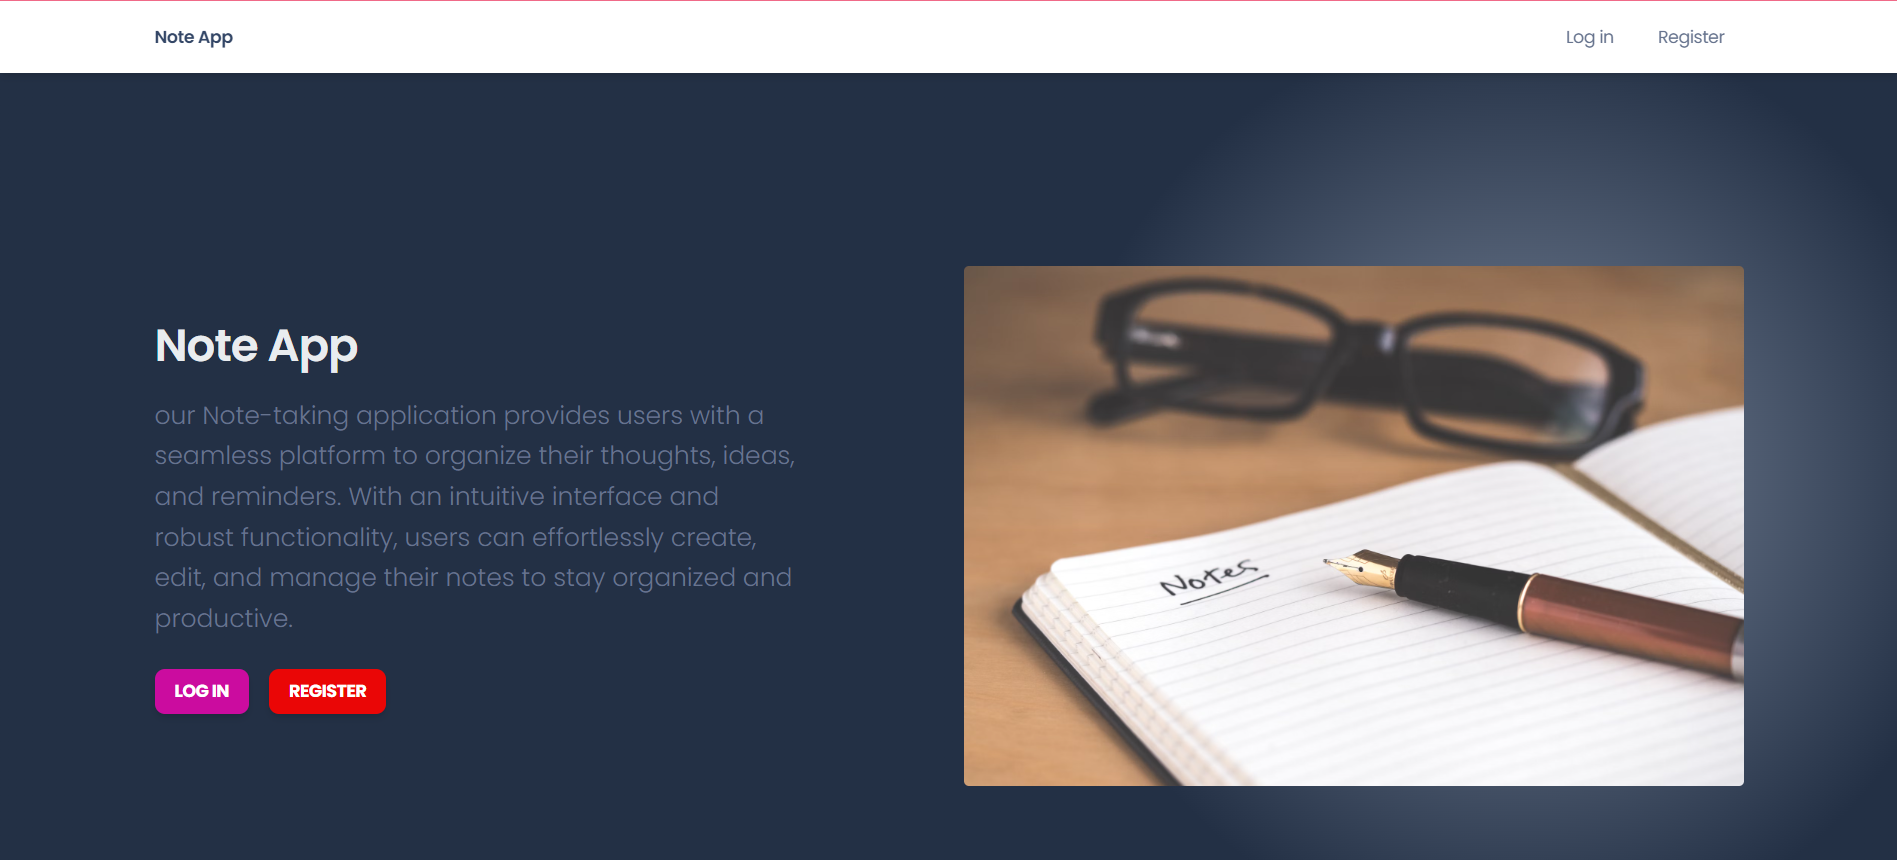
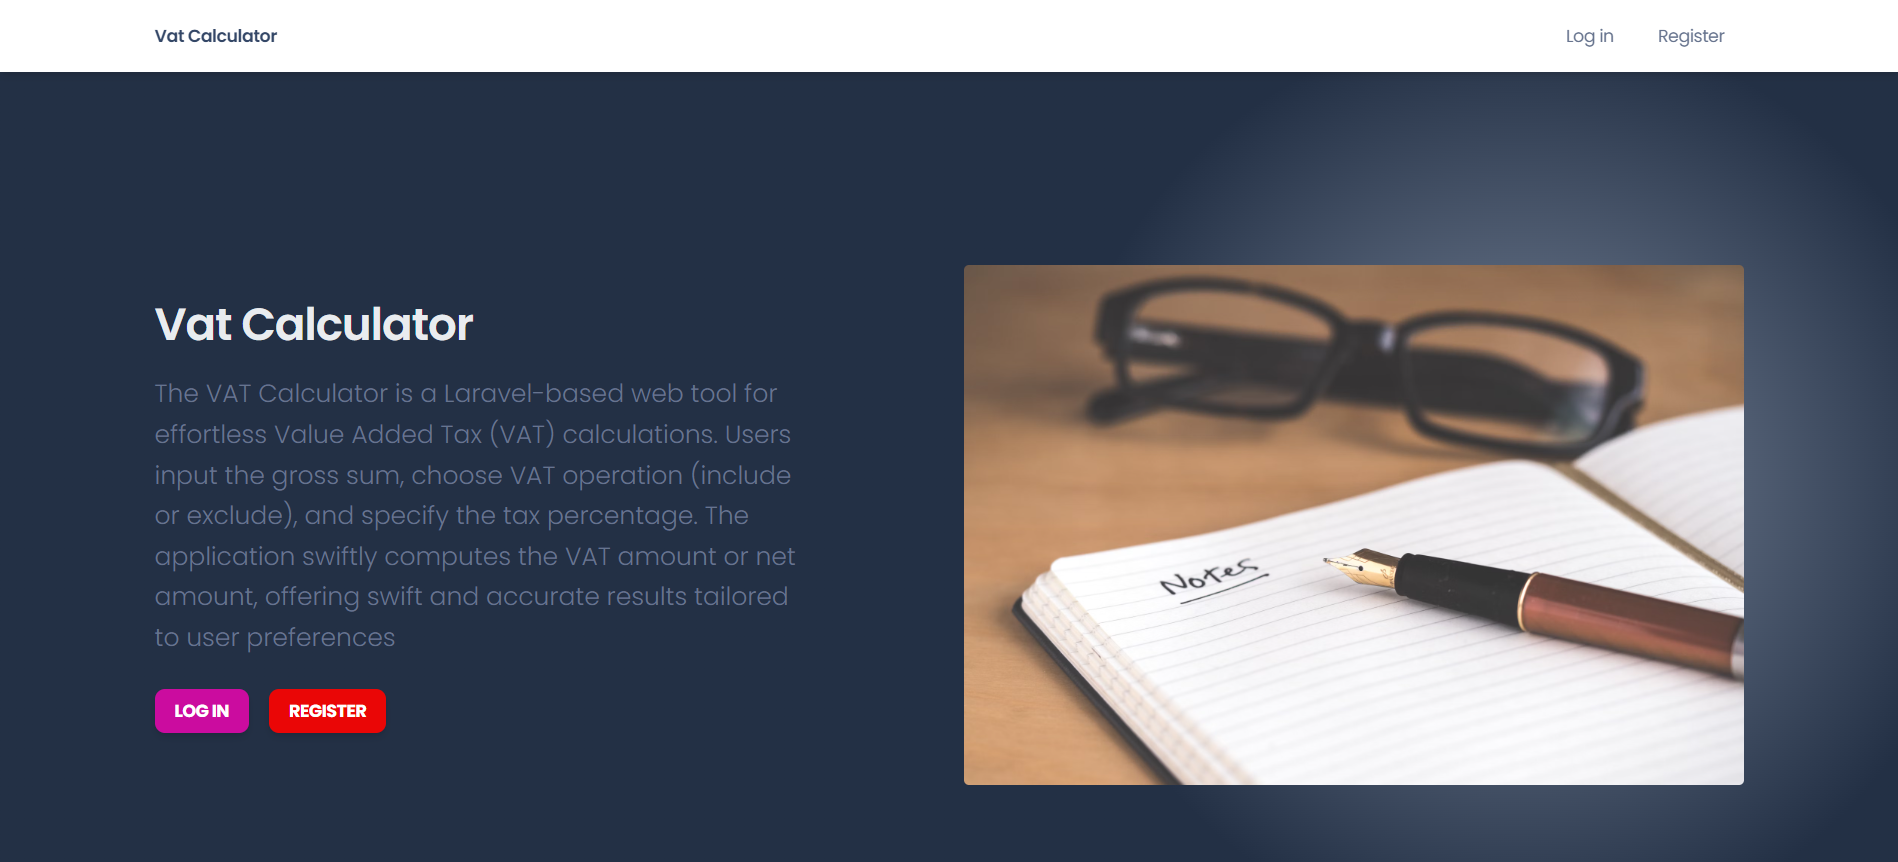
added Readme.md for proper Documentation

diff --git a/README.md b/README.md
@@ -3,11 +3,9 @@
 <div align="center">
 
 <img src="public/assets/images/ss/ss.png"/>
-<h2 align="center"> Note App</h2>
+<h2 align="center"> Vat Calculator</h2>
 
-  <p align="center">our Note-taking application provides users with a seamless platform to organize 
-their thoughts, ideas, and reminders. With an intuitive interface and robust functionality, users can effortlessly create,
-edit, and manage their notes to stay organized and productive.</p>
+  <p align="center">The VAT Calculator is a Laravel-based web tool for effortless Value Added Tax (VAT) calculations. Users input the gross sum, choose VAT operation (include or exclude), and specify the tax percentage. The application swiftly computes the VAT amount or net amount, offering swift and accurate results tailored to user preferences</p>
 
 
 
@@ -41,11 +39,9 @@ edit, and manage their notes to stay organized and productive.</p>
 
 <img src="public/assets/images/ss/ss1.png"/>
 <img src="public/assets/images/ss/ss2.png"/>
-<img src="public/assets/images/ss/ss3.png"/>
-<img src="public/assets/images/ss/ss4.png"/>
 
-A simple “Note-taking application” using Laravel. The application should
-allow users to input their daily notes and manage them.
+
+Simply enter the gross sum, choose vat calculation operation (include or exclude), tax percentage and press «Calculate» or enter button to calculate VAT amount.
 
 <p align="right">(<a href="#readme-top">back to top</a>)</p>
 
@@ -83,7 +79,7 @@ Open your terminal and navigate to the directory where you want to install the L
 Then run the following command:
 
    ```sh
-   git clone https://github.com/Sabbir-Hossain12/Note-taking-App.git
+   git clone https://github.com/Sabbir-Hossain12/Vat-Calculator-by-Laravel-11.git
    ```
 
 #### 2. Navigate to Project Directory
@@ -91,7 +87,8 @@ Then run the following command:
 Move into the project directory:
 
    ```sh
-   cd Note-taking-App
+   cd Vat-Calculator-by-Laravel-11
+
    ```
 
 #### 3. Install Dependencies
@@ -158,30 +155,30 @@ browser.
 
 ## Product Requirement and Roadmap
 
-1. User Authentication:
-   - Implement user registration, login, and logout functionalities.
-   - Ensure secure authentication for accessing user-specific notes.
-2. Note Management:
-   - Allow users to create, edit, and delete notes.
-   - Each note should have a title, content, creation date, and last modified date.
-3. Implement CRUD operations for managing notes.
-   - Search Functionality:
-   - Implement a search feature for users to find notes based on titles or content.
-4. User interface
-   - Utilize the provided Bootstrap template from Bootstrap Examples for designing
-   the user interface.
-   - Design an intuitive and user-friendly interface for creating, viewing, and
-   managing notes.
+- Complete each section to the best of your ability within the given time frame.
+- You can use online resources, but plagiarism is strictly prohibited.
+- Submit your solution as instructed at the end of the task.
+
+### Section 1: Authentication & Seeder
+Create an authentication mechanism for users.
+Make a seeder for user login.
+
+### Section 3: Create a simple vat calculator
+- Create a Layout Using Laravel Blade Templating Engine(i.e: Blade Template Mastering)
+Use this template for creating the app, https://getbootstrap.com/docs/5.2/examples/dashboard/
+Instructions for the vat calculator:
+Simply enter the gross sum, choose vat calculation operation (include or exclude), tax percentage and press «Calculate» or enter button to calculate VAT amount.
+By default the VAT calculator rate will be set for Bangladesh standard VAT rate.
+- Excluding VAT from gross sum: VAT calculation formula for VAT exclusion is the following: to calculate VAT having the gross amount you should divide the gross amount by 1 + VAT percentage (i.e. if it is 15%, then you should divide by 1.15), then subtract the gross amount, multiply by -1 and round to the closest value. The last two operations are not mandatory since you see the VAT value even before you do them.
+- Adding VAT to net amount: Simply multiply the net amount by 1 + VAT percentage (i.e. multiply by 1.15 if VAT is 15%) and you'll get the gross amount. Or multiply by VAT percentage to get the VAT value.
+Read more about VAT tax on Wikipedia (https://en.wikipedia.org/wiki/Value-added_tax).
+
 
 ### Features
 
 - Laravel Breeze for Authentication(login,registration,forget password,logout)
-- Dynamic User Name on top right corner of Dashboard. 
-- Dynamic Dashboard shows the total number of Notes for the Specific User.
-- List of Total Notes for the specific User managed by Jquery Datatable plugin.
-- Edit, Delete, Search, pagination, custom entry and Create Notes Dynamically Using Ajax architecture(axios library).
-- user-friendly interface for creating, viewing, and
-  managing notes.
+- Seeder for user login.
+- enter the gross sum, choose vat calculation operation (include or exclude), tax percentage and press «Calculate» or enter button to calculate VAT amount.
 
 <p align="right">(<a href="#readme-top">back to top</a>)</p>
 
@@ -194,7 +191,7 @@ browser.
 
 Sabbir Hossain- h.sabbir36@yahoo.com
 
-Project Link: https://github.com/Sabbir-Hossain12/Note-taking-App
+Project Link: https://github.com/Sabbir-Hossain12/Vat-Calculator-by-Laravel-11
 
 <p align="right">(<a href="#readme-top">back to top</a>)</p>
 
